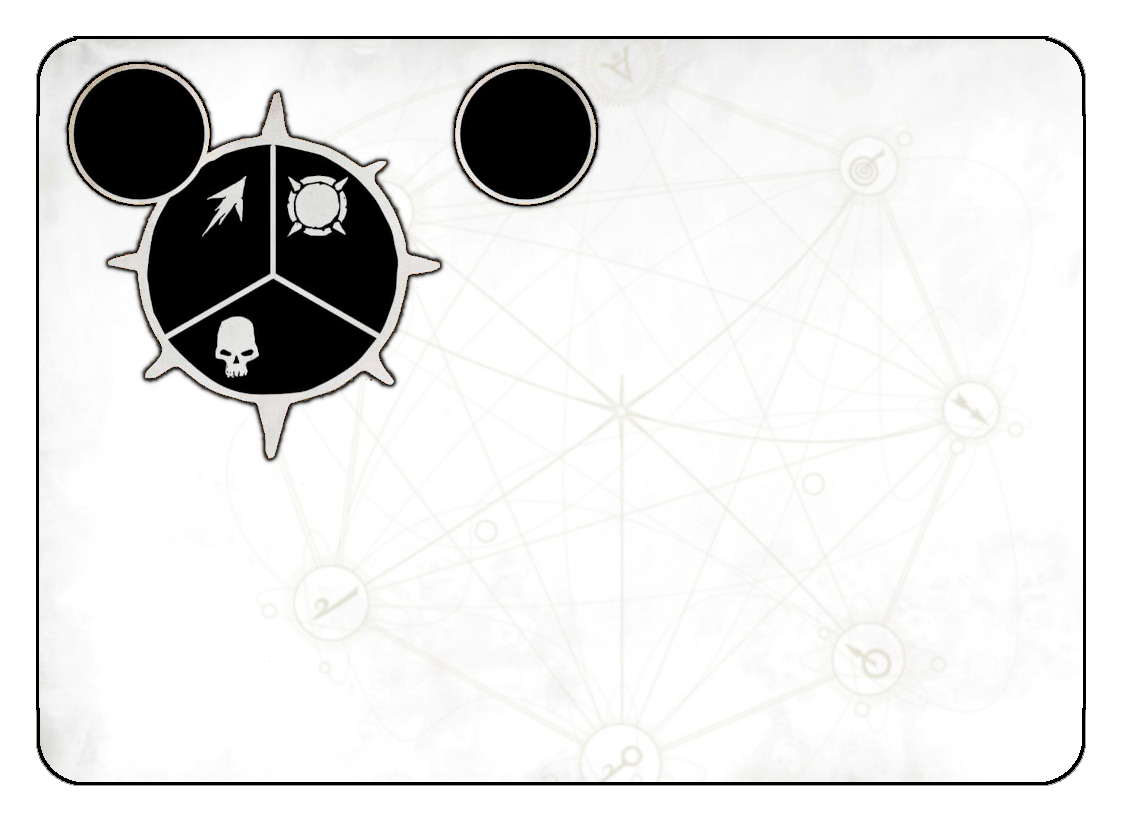
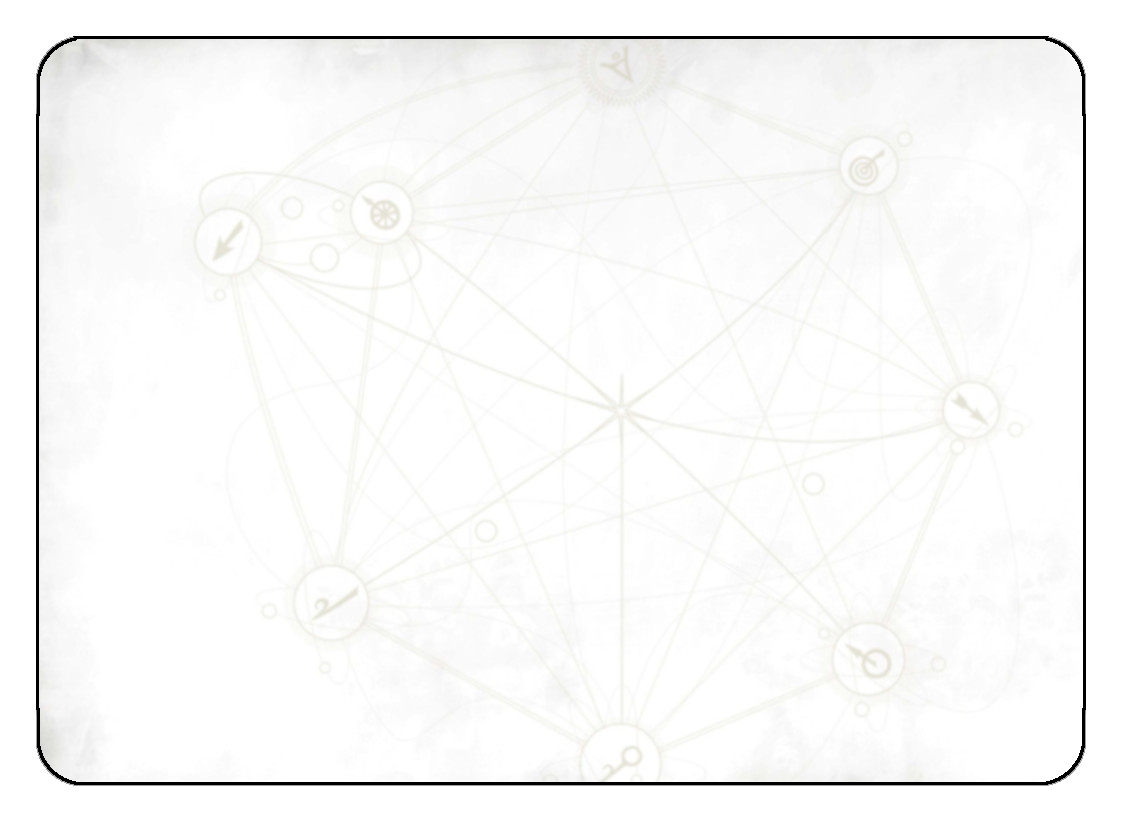
Added option to remove all frame details and only have background and image, this is to layer up for a background card image

Changed region(s): [[0.0312, 0.0608, 0.4055, 0.5779], [0.3743, 0.0608, 0.5615, 0.2737]]

diff --git a/assets/js/fighters.js b/assets/js/fighters.js
@@ -1,12 +1,19 @@
-writeValue = function (ctx, value, pos) {
-    var scale = getScalingFactor(getCanvas(), getBackgroundImage());
-    pos = { x: pos.x / scale.x, y: pos.y / scale.y };
-
-    ctx.save();
+const writeValue = function(ctx, value, position) {
+    if (!ctx || typeof ctx.fillText !== 'function') {
+      throw new Error('Invalid canvas context');
+    }
+  
+    const canvas = getCanvas();
+    const backgroundImage = getBackgroundImage();
+    const scale = getScalingFactor(canvas, backgroundImage);
+    const scaledPosition = {
+      x: position.x / scale.x,
+      y: position.y / scale.y
+    };
+  
     ctx.scale(scale.x, scale.y);
-    ctx.fillText(value, pos.x, pos.y);
-    ctx.restore();
-}
+    ctx.fillText(value, scaledPosition.x, scaledPosition.y);
+  };
 
 getScalingFactor = function (canvas, warcryCardOne) {
     return {
@@ -701,115 +708,147 @@ function drawDeploymentRunemark(image) {
     drawImageSrc(position, size, image);
 }
 
-render = function (fighterData) {
-    console.log("Render:");
-    console.log(fighterData);
-
-
-    // if we have a custom background, we start with that then nest through.
+const render = function(fighterData) {
     if (fighterData.customBackgroundUrl) {
-        
-        var backgroundImage = new Image();
-        backgroundImage.onload = function () {
-            var position = scalePixelPosition({ x: fighterData.customBackgroundProperties.offsetX, y: fighterData.customBackgroundProperties.offsetY });
-            var scale = fighterData.customBackgroundProperties.scalePercent;
-            var width = backgroundImage.width * scale/100;
-            var height = backgroundImage.height * scale/100;
-            //getContext().globalAlpha = fighterData.customBackgroundProperties.opacity;           
-            getContext().drawImage(backgroundImage, position.x, position.y, width, height);
-            //getContext().globalAlpha = 1;
-                if (!(document.getElementById('subfaction-runemarks/none/blank.gif').checked)) {
-        if (fighterData.subfactionRunemark != null) {
-            drawSubfactionRunemark(fighterData.subfactionRunemark);
-        }
+      renderCustomBackground(fighterData);
+    } else {
+      renderDefaultBackground(fighterData);
     }
-    if (!(document.getElementById('checkbox-assets/img/blank2.gif').checked)) {
-        if (fighterData.deploymentRunemark != null) {
-            drawDeploymentRunemark(fighterData.deploymentRunemark);
-        }
-    }   
+  };
+  
+const renderCustomBackground = function(fighterData) {
+    const backgroundImage = new Image();
+    const removeTextAndFrame = document.getElementById("removeTextAndFrame").checked;
+    console.log("Check Point One:");
+    console.log(removeTextAndFrame);
+    backgroundImage.onload = function() {
+        const position = scalePixelPosition({
+        x: fighterData.customBackgroundProperties.offsetX,
+        y: fighterData.customBackgroundProperties.offsetY
+        });
+        const scale = fighterData.customBackgroundProperties.scalePercent;
+        const width = backgroundImage.width * scale / 100;
+        const height = backgroundImage.height * scale / 100;
+        getContext().drawImage(backgroundImage, position.x, position.y, width, height);
+        console.log("Check Point Two");
+        if(!removeTextAndFrame){
             drawFrame();
-            if (fighterData.imageUrl) {
-                var image = new Image();
-                image.onload = function () {
-                    var position = scalePixelPosition({ x: 600 + fighterData.imageProperties.offsetX, y: 200 + fighterData.imageProperties.offsetY });
-                    var scale = fighterData.imageProperties.scalePercent / 100.0;
-                    var width = image.width * scale;
-                    var height = image.height * scale;
-                    getContext().drawImage(image, position.x, position.y, width, height);
-                    drawOverlayTexts(fighterData);
-                };
-                image.src = fighterData.imageUrl;
-            } else {
-                // Drawn if no image, or when file is loaded but no image included
+            if (!(document.getElementById('subfaction-runemarks/none/blank.gif').checked) && fighterData.subfactionRunemark != null) {
+            drawSubfactionRunemark(fighterData.subfactionRunemark);
+            }
+            if (!(document.getElementById('checkbox-assets/img/blank2.gif').checked) && fighterData.deploymentRunemark != null) {
+            drawDeploymentRunemark(fighterData.deploymentRunemark);
+            }
+        };
+        renderFighterImage(fighterData);
+        
+    };
+    backgroundImage.src = fighterData.customBackgroundUrl;
+};
+  
+const renderDefaultBackground = function(fighterData) {
+    const removeTextAndFrame = document.getElementById("removeTextAndFrame").checked;
+    getContext().drawImage(getBackgroundImage(), 0, 0, getCanvas().width, getCanvas().height);
+    console.log("Check Point Three");
+    if(!removeTextAndFrame){
+        drawFrame();
+    }
+    drawBorder();
+    renderFighterImage(fighterData);
+};
+  
+const renderFighterImage = function(fighterData) {
+    const removeTextAndFrame = document.getElementById("removeTextAndFrame").checked;
+    if (fighterData.imageUrl) {
+        const image = new Image();
+        image.onload = function() {
+            const position = scalePixelPosition({
+                x: 600 + fighterData.imageProperties.offsetX,
+                y: 200 + fighterData.imageProperties.offsetY
+            });
+            const scale = fighterData.imageProperties.scalePercent / 100.0;
+            const width = image.width * scale;
+            const height = image.height * scale;
+            getContext().drawImage(image, position.x, position.y, width, height);
+            if(!removeTextAndFrame){
+                drawFrame();
                 drawOverlayTexts(fighterData);
             }
-        }
-        backgroundImage.src = fighterData.customBackgroundUrl;
-        
-    }   else {
-        getContext().drawImage(getBackgroundImage(), 0, 0, getCanvas().width, getCanvas().height);
-        drawFrame();
-        if (fighterData.imageUrl) {
-            var image = new Image();
-            image.onload = function () {
-                var position = scalePixelPosition({ x: 600 + fighterData.imageProperties.offsetX, y: 200 + fighterData.imageProperties.offsetY });
-                var scale = fighterData.imageProperties.scalePercent / 100.0;
-                var width = image.width * scale;
-                var height = image.height * scale;
-                getContext().drawImage(image, position.x, position.y, width, height);
-                drawOverlayTexts(fighterData);
-            };
-            image.src = fighterData.imageUrl;
-        }
-        else {
-            // Drawn if no image, or when file is loaded but no image included
+            drawBorder();
+        };
+        image.src = fighterData.imageUrl;
+    } else {
+        // Drawn if no image, or when file is loaded but no image included
+        if(!removeTextAndFrame){
+            drawFrame();
             drawOverlayTexts(fighterData);
-    
         }
+        drawBorder();
     }
-    drawBorder();
-}
+};
 
+  
 
-drawOverlayTexts = function(fighterData){
+function drawOverlayTexts(fighterData) {
+    const {
+      fighterName,
+      fighterName2,
+      factionRunemark,
+      subfactionRunemark,
+      deploymentRunemark,
+      move,
+      wounds,
+      toughness,
+      pointCost,
+      weapon1,
+      weapon2,
+      tagRunemarks,
+    } = fighterData;
+  
+    // Set default values for the checkboxes
+    const subfactionCheckbox = document.getElementById('subfaction-runemarks/none/blank.gif');
+    const deploymentCheckbox = document.getElementById('checkbox-assets/img/blank2.gif');
+  
+    const showSubfactionRunemark = subfactionCheckbox.checked;
+    const showDeploymentRunemark = deploymentCheckbox.checked;
+  
     // These are the texts to overlay
-    drawFighterName(fighterData.fighterName);
-    drawFighterName2(fighterData.fighterName2);
-    //URL.revokeObjectURL(image.src);
-    drawFactionRunemark(fighterData.factionRunemark);
+    drawFighterName(fighterName);
+    drawFighterName2(fighterName2);
+    drawFactionRunemark(factionRunemark);
     drawBorder();
-
-    if (!(document.getElementById('subfaction-runemarks/none/blank.gif').checked)) {
-        if (fighterData.subfactionRunemark != null) {
-            drawSubfactionRunemark(fighterData.subfactionRunemark);
-        }
+  
+    // Draw subfaction runemark if enabled
+    if (showSubfactionRunemark && subfactionRunemark) {
+      drawSubfactionRunemark(subfactionRunemark);
     }
-    if (!(document.getElementById('checkbox-assets/img/blank2.gif').checked)) {
-        if (fighterData.deploymentRunemark != null) {
-            drawDeploymentRunemark(fighterData.deploymentRunemark);
-        }
+  
+    // Draw deployment runemark if enabled
+    if (showDeploymentRunemark && deploymentRunemark) {
+      drawDeploymentRunemark(deploymentRunemark);
     }
-    drawMove(fighterData.move);
-    drawWounds(fighterData.wounds);
-    drawToughness(fighterData.toughness);
-    drawPointCost(fighterData.pointCost);
-        
-    if (fighterData.weapon1.enabled && fighterData.weapon2.enabled) {
-
-        drawWeapon(fighterData.weapon2, { x: 68, y: 520 }); // Default was x:29, y:397
-        drawWeapon(fighterData.weapon1, { x: 68, y: 640 }); // Default was x:29, y:564
+  
+    drawMove(move);
+    drawWounds(wounds);
+    drawToughness(toughness);
+    drawPointCost(pointCost);
+  
+    // Determine which weapon(s) to draw and their positions
+    if (weapon1.enabled && weapon2.enabled) {
+      drawWeapon(weapon2, { x: 68, y: 520 }); // Default was x:29, y:397
+      drawWeapon(weapon1, { x: 68, y: 640 }); // Default was x:29, y:564
+    } else if (weapon1.enabled) {
+      drawWeapon(weapon1, { x: 68, y: 550 }); // Default was x:29, y:463
+    } else if (weapon2.enabled) {
+      drawWeapon(weapon2, { x: 68, y: 550 }); // Default was x:29, y:463
     }
-    else if (fighterData.weapon1.enabled) {
-        drawWeapon(fighterData.weapon1, { x: 68, y: 550 }); // Default was x:29, y:463
+  
+    // Draw tag runemarks
+    for (let i = 0; i < tagRunemarks.length; i++) {
+      drawTagRunemark(i, tagRunemarks[i]);
     }
-    else if (fighterData.weapon2.enabled) {
-        drawWeapon(fighterData.weapon2, { x: 68, y: 550 }); // Default was x:29, y:463
-    }
-    for (i = 0; i < fighterData.tagRunemarks.length; i++) {
-        drawTagRunemark(i, fighterData.tagRunemarks[i]);
-    }
-}
+  }
+  
 
 async function writeControls(fighterData) {
     //setName("Warcry_Fighter_Card"); // Always default, trying to move away from this
@@ -825,9 +864,6 @@ async function writeControls(fighterData) {
         fighterData.imageUrl = URL.createObjectURL(blob);
         // Now that's saved, clear out the base64 so we don't reassign
         fighterData.base64Image = null;
-    } else {
-        //fighterData.imageUrl = null;
-        console.log("Check Point One");
     }
 
     if (fighterData.base64CustomBackground) {
@@ -840,8 +876,6 @@ async function writeControls(fighterData) {
         fighterData.customBackgroundUrl = URL.createObjectURL(blob);
         // Now that's saved, clear out the base64 so we don't reassign
         fighterData.base64CustomBackground = null;
-    } else {
-        console.log("Check Point Two");
     }
 
     setModelImage(fighterData.imageUrl);

diff --git a/_includes/fighters/section-background.html b/_includes/fighters/section-background.html
@@ -157,10 +157,12 @@
                         <input class="form-control" id="customBackgroundScalePercent" min="0" max="300" oninput="onAnyChange()"
                             type="number" value="100" />
                     </div>
+                    <div class="form-group form-check">
+                        <input type="checkbox" class="form-check-input" id="removeTextAndFrame" onchange="onAnyChange()">
+                        <label class="form-check-label" for="removeTextAndFrame">Remove Text and Frame</label>
+                    </div>
                 </div>
             </div>
-        
         </div>
     </div>
-
 </div>
